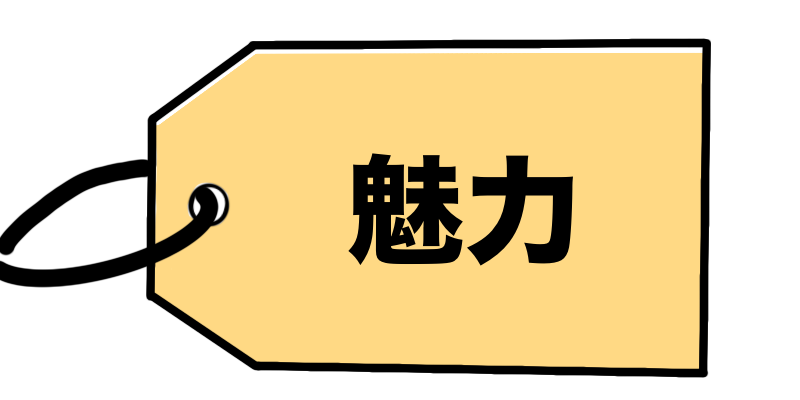
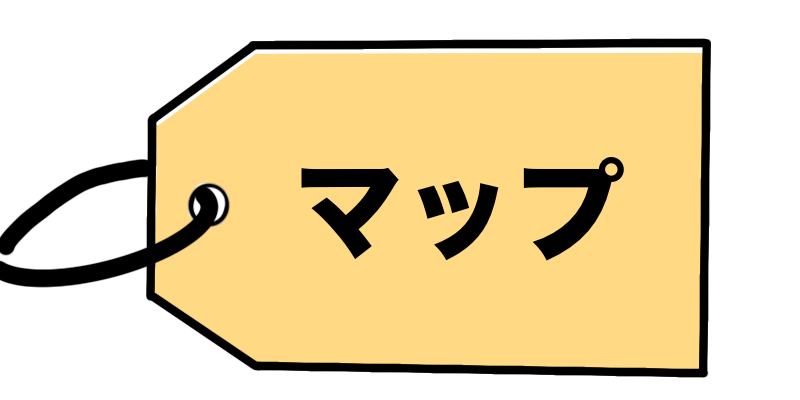
魅力の削除

Changed region(s): [[0.375, 0.39, 0.7812, 0.66]]

diff --git a/components/charm/charm.tsx b/components/charm/charm.tsx
@@ -5,66 +5,7 @@ export default function Charm() {
     return (
         <>
             <div className="charm_box">
-                <a href="/map" className="charm_a_box">
-                    <div className="charm_header">
-                        <Image
-                            className="charm_img"
-                            src="/topad/mapad.png"
-                            alt=""
-                            width={2640}
-                            height={1640}
-                            priority
-                        />
-                    </div>
-                    <div className="charm_desc">
-                        <h1>MAP誘導</h1>
-                        <p>立体でより分かりやすく</p>
-                    </div>
-                </a>
-                <a href="/event" className="charm_a_box">
-                    <div className="charm_header">
-                        <Image
-                            className="charm_img"
-                            src="/topad/searchad.png"
-                            alt=""
-                            width={2360}
-                            height={1640}
-                            priority
-                        />
-                    </div>
-                    <div className="charm_desc">
-                        <h1>検索誘導</h1>
-                        <p>今までにない便利さを追求しました</p>
-                    </div>
-                </a>
-                <a href="/timetable" className="charm_a_box">
-                    <div className="charm_header">
-                        <Image
-                            className="charm_img"
-                            src="/topad/timead.png"
-                            alt=""
-                            width={2360}
-                            height={1640}
-                            priority
-                        />
-                    </div>
-                    <div className="charm_desc">
-                        <h1>タイムテーブル誘導</h1>
-                        <p>ステージで今やってるものを確認</p>
-                    </div>
-                </a>
-                <div className="charm_sp">
-                    <div className="charm_header_sp">
-                        <Image
-                            className="charm_img_sp"
-                            src="/welcome/logosp.png"
-                            alt=""
-                            width={831}
-                            height={714}
-                            priority
-                        />
-                    </div>
-                </div>
+                mapコンテンツ ※画像未定
             </div>
         </>
     );

diff --git a/app/homepage.css b/app/homepage.css
@@ -77,6 +77,7 @@
     width: 90%;
     max-width: 1500px;
     max-height: 70vh;
+    min-height: 20vh;
     overflow-y: scroll;
     -ms-overflow-style: none;
     scrollbar-width: none;
